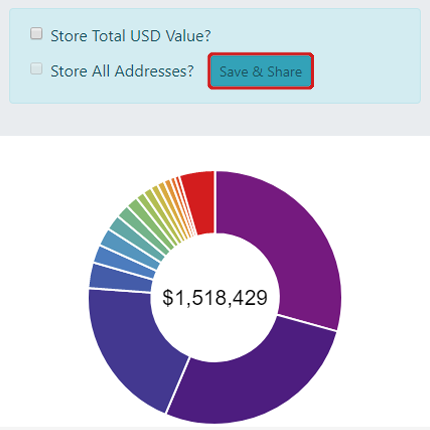
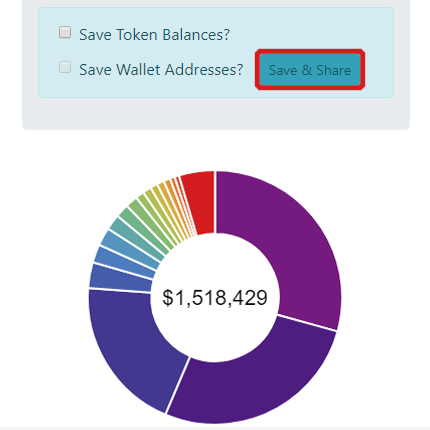
Lots of updates again, fully on coin market cap api

Changed region(s): [[0.0, 0.0, 0.9977, 0.2419]]

diff --git a/index.html b/index.html
@@ -81,8 +81,8 @@
                         <div class="col-md-4">
                             <h2>Share.</h2>
                             <p>Once you save your portfolio, we give you a link which you can share with your friends.</p>
-                            <p>If you chose to <b>save your total USD value</b>, we will show people how much your total portfolio is worth.</p>
-                            <p>If you chose to <b>save your addresses</b>, we will automatically update your entire portfolio as it changes.</p>
+                            <p>If you chose to <b>save token balances</b>, we can update the value of your portfolio over time.</p>
+                            <p>If you chose to <b>save wallet addresses</b>, we can update your entire portfolio over time.</p>
                         </div>
                     </div>
                     <hr class="my-4">
@@ -95,9 +95,9 @@
                             <p>Our goal is not only to make it simple to create your portfolio, but make it easy to share it too.</p>
                             <p>Take a look at these example portfolios to see what sharing looks like. Note that these all represent the same token portfolio using the different save settings.</p>
                             <ul>
-                                <li><b>Default save settings (no personal data):</b> <a href="http://ethfol.io/?row=2">http://ethfol.io/?row=2</a></li>
-                                <li><b>Save total value:</b> <a href="http://ethfol.io/?row=3">http://ethfol.io/?row=3</a></li>
-                                <li><b>Save all addresses and custom token values:</b> <a href="http://ethfol.io/?row=4">http://ethfol.io/?row=4</a></li>
+                                <li><b>Default save settings:</b> <a href="http://ethfol.io/?r=2">http://ethfol.io/?r=2</a></li>
+                                <li><b>Save token balances:</b> <a href="http://ethfol.io/?r=3">http://ethfol.io/?r=3</a></li>
+                                <li><b>Save wallet addresses:</b> <a href="http://ethfol.io/?r=4">http://ethfol.io/?r=4</a></li>
                             </ul>
                         </div>
                     </div>
@@ -116,24 +116,20 @@
                         </div>
                         <div class="col-md-9">
                             <h3>You can add any number of custom tokens.</h3>
-                            <p>Using the <a href="https://www.cryptocompare.com/">CryptoCompare</a> price API, we are able to bring you access to hundreds of tokens which you can easily add to your portfolio. You just add the <b>#</b> of tokens you own, and we will calculate the total value.</p>
-                            <p>If your token is not supported by the CryptoCompare API, you can just use the dropdown to enter a <b>$</b> value for your tokens, and we will seamlessly add it to your portfolio.</p>
+                            <p>Using the <a href="https://coinmarketcap.com/">Coinmarketcap</a> price API, we are able to bring you access to hundreds of tokens which you can easily add to your portfolio. You just add the <b>#</b> of tokens you own, and we will calculate the total value.</p>
+                            <p>If your token is not supported by the Coinmarketcap API, you can just use the dropdown to enter a <b>$</b> value for your tokens, and we will seamlessly add it to your portfolio.</p>
                         </div>
                     </div>
                     <div class="row">
-                        <div class="col-md-3">
-                            <img src="image-4.png" class="img-responsive img-thumbnail" />
-                        </div>
-                        <div class="col-md-9">
-                            <h3>Quickly check your wallets without sharing anything.</h3>
+                        <div class="col-md-12">
+                            <h3>Bookmark your wallets without sharing anything.</h3>
                             <p>With the <code>?a=</code> query string, you can create a URL with your different ETH, BTC, and LTC addresses separated by a comma (<code>,</code>). When you visit that link, your addresses will automatically get populated in the portfolio view.</p>
-                            <p>Take a look at this example: <a style="word-wrap: break-word;" href="http://ethfol.io?a=0x7eD1E469fCb3EE19C0366D829e291451bE638E59,LSFz3wyoFcqW2TKPCcj9gao4zPPuS3wUTS,1F1tAaz5x1HUXrCNLbtMDqcw6o5GNn4xqX">http://ethfol.io?a=0x7eD1E469fCb3EE19C0366D829e291451bE638E59,LSFz3wyoFcqW2TKPCcj9gao4zPPuS3wUTS,1F1tAaz5x1HUXrCNLbtMDqcw6o5GNn4xqX</a></p>
+                            <p>You can use this same trick to add custom tokens aswell! Any other query string is treated as custom token. By default, the value of the query string will set the token balance, but you can set the USD amount by adding <code>$</code> to the value.</p>
+                            <p>Take a look at this example:<br /><a style="word-wrap: break-word;" href="?a=0x7eD1E469fCb3EE19C0366D829e291451bE638E59,LSFz3wyoFcqW2TKPCcj9gao4zPPuS3wUTS,1F1tAaz5x1HUXrCNLbtMDqcw6o5GNn4xqX&BCH=100,200&XMR=$100000"><code>http://ethfol.io<br />?a=0x7eD1E469fCb3EE19C0366D829e291451bE638E59,LSFz3wyoFcqW2TKPCcj9gao4zPPuS3wUTS,1F1tAaz5x1HUXrCNLbtMDqcw6o5GNn4xqX<br />&BCH=100,200<br />&XMR=$100000</code></a></p>
                         </div>
                     </div>
                     <div class="row">
-                        <div class="col-md-3">
-                        </div>
-                        <div class="col-md-9">
+                        <div class="col-md-12">
                             <h3>Find bugs? Have suggestions? Wanna say thanks?</h3>
                             <p>I would love any and all comments and criticisms for this project. Feel free to point out issues on <a href="https://github.com/shawntabrizi/ethfolio">GitHub</a>, or send me feedback directly via <a href="mailto:shawntabrizi@gmail.com?Subject=ethfol.io%20Feedback">e-mail</a>.</p>
                             <p>If you think this project is extra cool and want to say thanks, feel free to send me some fake money at:</p>
@@ -141,7 +137,6 @@
                                 <li>ETH: <code>0xD62835Fe2B40C8411A10E7980a290270e6A23cDA</code></li>
                                 <li>BTC: <code>3QQJLmgMJdWDThvWpbvmrKH9WVJyBM9TZy</code></li>
                             </ul>
-                            <p>Look at <a href="http://ethfol.io?a=0xD62835Fe2B40C8411A10E7980a290270e6A23cDA,3QQJLmgMJdWDThvWpbvmrKH9WVJyBM9TZy">my sad portfolio</a> :(</p>
                         </div>
                     </div>
                 </div>
@@ -151,7 +146,7 @@
 
     <footer class="footer fixed-bottom">
         <div class="container">
-            <span class="text-muted"><a href=".">ethfolio</a> &copy; - Created by <a href="http://shawntabrizi.com/">Shawn Tabrizi</a> - Powered by <a href="https://ethplorer.io/">Ethplorer.io</a>, <a href="https://www.cryptocompare.com/">CryptoCompare</a>, <a href="https://blockchain.info/">Blockchain.info</a>, and <a href="https://www.blockcypher.com/">BlockCypher</a> - Using <a href="http://www.chartjs.org/">Chart.js</a> and Google <a href="https://www.google.com/forms/about/">Forms</a> + <a href="https://www.google.com/sheets/about/">Sheets</a> - Source on <a href="https://github.com/shawntabrizi/ethfolio">GitHub</a></span>
+            <span class="text-muted"><a href=".">ethfolio</a> &copy; - Created by <a href="http://shawntabrizi.com/">Shawn Tabrizi</a> - Powered by <a href="https://ethplorer.io/">Ethplorer.io</a>, <a href="https://coinmarketcap.com/">Coinmarketcap</a>, <a href="https://blockchain.info/">Blockchain.info</a>, and <a href="https://www.blockcypher.com/">BlockCypher</a> - Using <a href="http://www.chartjs.org/">Chart.js</a> and Google <a href="https://www.google.com/forms/about/">Forms</a> + <a href="https://www.google.com/sheets/about/">Sheets</a> - Source on <a href="https://github.com/shawntabrizi/ethfolio">GitHub</a></span>
         </div>
     </footer>
 

diff --git a/ethfolio.js b/ethfolio.js
@@ -663,7 +663,7 @@ function displayAllBalances(tokens, total) {
         table += `<table class="table table-striped">
                     <thead>
                         <tr>
-                            <th scope="col" class="col-color">&nbsp;</th>
+                            <th scope="col" class="col-color">&nbsp;&nbsp;</th>
                             <th scope="col"></th>
                             <th scope="col">Token</th>
                             <th scope="col">%</th>
@@ -720,7 +720,7 @@ function displayAllBalances(tokens, total) {
                     price = parseFloat(coinDict[symbol]['price_usd'])
                 }
             } else {
-                price = null
+                price = token[3]
             }
 
 
@@ -732,7 +732,7 @@ function displayAllBalances(tokens, total) {
                         <td>${(percentage * 100).toPrecision(4) + "%"}</td>
                         ${ extendedTable ? (token[4] ? '<td>$' + (token[4] < 1 ? (token[4]).toPrecision(4) : (token[4]).toLocaleString(undefined, { maximumFractionDigits: 2, minimumFractionDigits: 2 })) + '</td>' : '<td>?</td>') : ''}
                         ${ extendedTable ? (token[2] ? '<td>' + (token[2] < 1 ? (token[2]).toPrecision(4) : token[2] < 1000 ? (token[2]).toLocaleString(undefined, { maximumFractionDigits: 2, minimumFractionDigits: 2 }) : (token[2]).toLocaleString(undefined, { maximumFractionDigits: 0, minimumFractionDigits: 0 })) + ' ' + symbol + '</td>' : '<td>?</td>') : ''}
-                        <td class="${ change ? (change < -5 ? 'table-danger' : change > 5 ? 'table-success' : '') : ''}">${price ? (price < 1 ? (price).toPrecision(4) : (price).toLocaleString(undefined, { maximumFractionDigits: 2, minimumFractionDigits: 2 })) : '?'}</td>
+                        <td class="${ change ? (change < -5 ? 'table-danger' : change > 5 ? 'table-success' : '') : ''}">$${price ? (price < 1 ? (price).toPrecision(4) : (price).toLocaleString(undefined, { maximumFractionDigits: 2, minimumFractionDigits: 2 })) : '?'}</td>
                     </tr>`
         }
 
@@ -915,7 +915,7 @@ async function submitToForm() {
 
                     var url = [location.protocol, '//', location.host, location.pathname].join('');
 
-                    var foliourl = url + "?row=" + (sheet.values.length + 1)
+                    var foliourl = url + "?r=" + (sheet.values.length + 1)
 
                     document.getElementById("shareLink").innerHTML = `<div class="alert alert-success" role="alert">Your ethfolio can be found at: <a href="${foliourl}">${foliourl}</a></div>`
 
@@ -1072,8 +1072,8 @@ window.onload = async function () {
     if (Object.keys(queryStrings).length > 0) {
         //Get data from coinmarketcap data
         sessionStorage.coinDict = await getAllTokens();
-        if ('row' in queryStrings) {
-            let row = queryStrings['row'][0]
+        if ('r' in queryStrings) {
+            let row = queryStrings['r'][0]
             if (row > 1) {
                 console.log("Getting Row " + row);
                 document.getElementById("output").innerHTML = "<h2 class='text-center'>Loading portfolio...</h2>";
